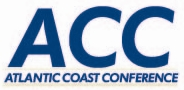
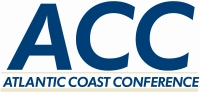
This is the NASCAR ACC Video Player backend management code. Released by Randy Klepetko. Release 0.9g Include added files. Format Changes: * Changes to styles.
Still needs:
* Formatting. (CSS)
* QC, QC...

diff --git a/backend/app/webroot/css/cake.generic.css b/backend/app/webroot/css/cake.generic.css
@@ -1,27 +1,8 @@
-/**
- *
- * Generic CSS for CakePHP
- *
- * CakePHP(tm) : Rapid Development Framework (http://cakephp.org)
- * Copyright 2005-2011, Cake Software Foundation, Inc. (http://cakefoundation.org)
- *
- * Licensed under The MIT License
- * Redistributions of files must retain the above copyright notice.
- *
- * @copyright     Copyright 2005-2011, Cake Software Foundation, Inc. (http://cakefoundation.org)
- * @link          http://cakephp.org CakePHP(tm) Project
- * @package       cake
- * @subpackage    cake.app.webroot.css
- * @since         CakePHP(tm)
- * @license       MIT License (http://www.opensource.org/licenses/mit-license.php)
- */
-
 * {
 	margin:0;
 	padding:0;
 }
 
-/** General Style Info **/
 body {
 	background: #fff;
 	color: #6C6D71;
@@ -69,6 +50,11 @@ ul, li {
 	margin: 0 12px;
 }
 
+ul {
+	list-style-image: none;
+    list-style-type: none;
+}
+
 /** Layout **/
 #container {
 	text-align: left;
@@ -80,7 +66,7 @@ ul, li {
 }
 #header h1 {
 	line-height:100px;
-	background: #fff url('../img/ACC.jpg') no-repeat left;
+	background: #fff url('../img/ACC.png') no-repeat left;
 	color: #6C6D71;
 	padding: 0px 200px;
 }
@@ -133,6 +119,7 @@ div.actions {
 	float:left;
 	width:16%;
 	padding:10px 1.5%;
+    overflow: auto;
 }
 div.actions h3 {
 	padding-top:0;
@@ -220,7 +207,8 @@ div.paging span a {
 dl {
 	line-height: 2em;
 	margin: 0em 0em;
-	width: 60%;
+	width: 100%;
+    overflow: auto;
 }
 dl .altrow {
 	background: #f4f4f4;
@@ -456,6 +444,7 @@ td.actions a {
 	text-decoration:none;
 	text-shadow: #fff 0px 1px 0px;
 	min-width: 0;
+    width: 170px;
 }
 
 input[type=submit]:hover,

diff --git a/backend/app/webroot/css/pdf.css b/backend/app/webroot/css/pdf.css
@@ -37,7 +37,7 @@ h1 {
 	font-size: 150%;
 }
 h2 {
-	background: #fff url('../img/ACC.jpg') no-repeat left;
+	background: #fff url('../img/ACC.png') no-repeat left;
 	color: #e32;
 	font-family:'Gill Sans','lucida grande', helvetica, arial, sans-serif;
 	font-size: 190%;
